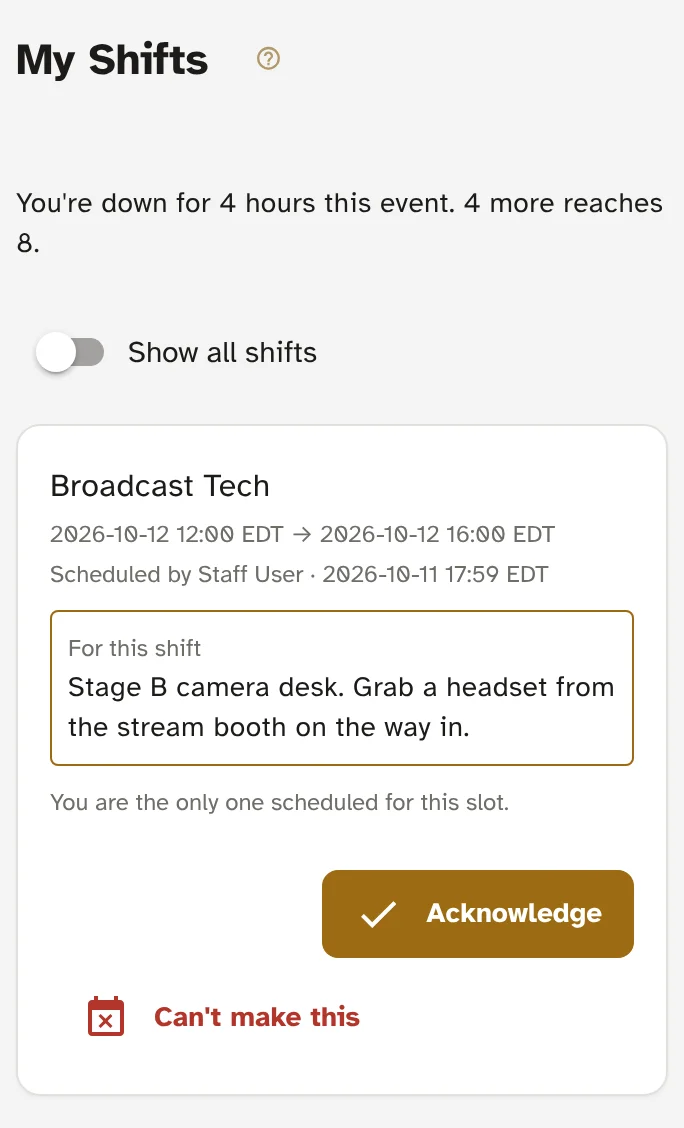
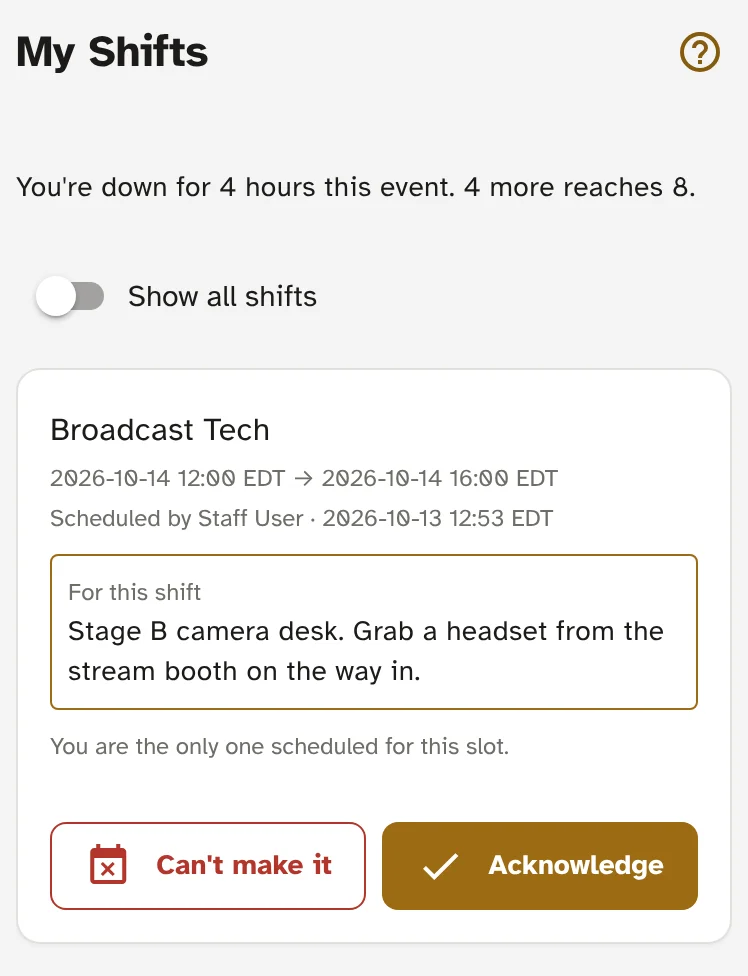
My Shifts: put Can't make it and Acknowledge side by side
Negative action on the left and the positive (or the Acknowledged status
that replaces it) on the right in every state. A narrow card splits the
row into equal halves via a container query, so phones and the multi-column
desktop list both keep the pair on one line. Renames the button to
"Can't make it" to match the reminder DM, and retakes the help shots.

Claude-Session: https://claude.ai/code/session_01EYNKtBQxx7UA2Zaxvc6kuL

diff --git a/static/css/styles.css b/static/css/styles.css
@@ -2933,6 +2933,65 @@ body.wiz-offline .wiz-requires-socket {
 }
 
 /* ---------------------------------------------------------------------------
+   My Shifts card actions — "Can't make it" on the left, Acknowledge (or the
+   status that replaces it) on the right, in every state. A wide card packs the
+   pair right at a fixed width; a narrow one (a phone, or a desktop card in a
+   multi-column list) splits the row into equal halves so the pair never wraps
+   onto two lines. Keyed to the row's own width, not the viewport, for that
+   second case.
+--------------------------------------------------------------------------- */
+.wiz-shift-actions {
+    container-type: inline-size;
+    display: flex;
+    justify-content: flex-end;
+    align-items: stretch;
+    gap: 8px;
+    width: 100%;
+    margin-top: 12px;
+}
+
+.wiz-shift-actions > * {
+    flex: 0 0 auto;
+    min-width: 168px;
+}
+
+.wiz-shift-status {
+    box-sizing: border-box;
+    display: inline-flex;
+    align-items: center;
+    justify-content: center;
+    gap: 6px;
+    min-height: 36px;
+    padding: 0 12px;
+    border: 1px solid currentColor;
+    border-radius: var(--radius-md);
+    font-size: 14px;
+    font-weight: 600;
+}
+
+.wiz-shift-status .q-icon {
+    font-size: 18px;
+}
+
+@container (max-width: 479.98px) {
+    .wiz-shift-actions > * {
+        flex: 1 1 0;
+        min-width: 0;
+    }
+
+    .wiz-shift-actions .q-btn__content {
+        flex-wrap: nowrap;
+        white-space: nowrap;
+    }
+}
+
+@media (max-width: 599.98px) {
+    .wiz-shift-status {
+        min-height: 44px;
+    }
+}
+
+/* ---------------------------------------------------------------------------
    In-app help (/help, and the tappable help icons scattered through the app).
 
    Articles are parsed into a closed block/span vocabulary and rendered with

diff --git a/pages/volunteer_tabs/my_shifts.py b/pages/volunteer_tabs/my_shifts.py
@@ -199,16 +199,25 @@ async def my_shifts_tab(release: Optional[str] = None) -> None:
                             )
                         ui.label(provenance).classes('text-caption text-grey')
                         _render_brief(assignment)
-                    # Actions wrap in their own row: the header row could not hold
-                    # two buttons plus the badge stack at 390px.
-                    with ui.row().classes('items-center gap-2 full-width q-mt-sm') \
-                            .style('flex-wrap: wrap;'):
+                    # Negative left, positive right in every state: a status that
+                    # replaces Acknowledge takes its slot rather than shifting
+                    # "Can't make it" across.
+                    with ui.element('div').classes('wiz-shift-actions'):
+                        # Offered whether or not it is acknowledged — agreeing to a
+                        # shift is not a commitment you cannot revise.
+                        if can_release:
+                            ui.button("Can't make it", icon='event_busy',
+                                      on_click=lambda a=assignment: confirm_release(a)) \
+                                .props('outline color=negative')
                         if checked_in:
-                            ui.badge('Checked in', color='teal')
+                            with ui.element('div').classes('wiz-shift-status st-live'):
+                                ui.icon('how_to_reg')
+                                ui.label('Checked in')
                         if acked:
-                            ui.badge('Acknowledged', color='positive')
-                        ui.space()
-                        if can_ack:
+                            with ui.element('div').classes('wiz-shift-status st-ok'):
+                                ui.icon('check')
+                                ui.label('Acknowledged')
+                        elif can_ack:
                             async def ack(a_id=assignment.id) -> None:
                                 try:
                                     await service.acknowledge(a_id, user)
@@ -216,13 +225,8 @@ async def my_shifts_tab(release: Optional[str] = None) -> None:
                                 except (ValueError, PermissionError) as e:
                                     notify_error(e)
                                 shift_list.refresh()
-                            ui.button('Acknowledge', icon='check', on_click=ack).props('color=primary')
-                        # Offered whether or not it is acknowledged — agreeing to a
-                        # shift is not a commitment you cannot revise.
-                        if can_release:
-                            ui.button("Can't make this", icon='event_busy',
-                                      on_click=lambda a=assignment: confirm_release(a)) \
-                                .props('flat color=negative')
+                            ui.button('Acknowledge', icon='check', on_click=ack) \
+                                .props('color=primary')
 
         def on_toggle(e) -> None:
             state['upcoming_only'] = not e.value

diff --git a/docs/reference/frontend.md b/docs/reference/frontend.md
@@ -341,7 +341,7 @@ On **My Shifts**, above the list, sits one line of hours: `VolunteerHoursService
 
 - **What am I down for** — position/label, the local start→end, and a provenance caption ("Scheduled by …", when, and the acknowledgment time once given).
 - **What does it involve** — the position's `description` as the standing brief, `shift.notes` in a bordered **For this shift** block (the per-shift instruction must not merge visually with the standing one), and a "With: …" line naming the others on the slot, drafts excluded.
-- **How do I get out of it** — a **Can't make this** button beside **Acknowledge**, offered whether or not the shift is acknowledged, opening a dialog that restates the shift, takes an optional reason the coordinator sees, and warns when the shift falls inside the reminder lead or 24 hours (whichever is longer). Its copy is the module-level pure `release_warning(starts_at, lead_minutes)`, so the decision is unit-testable. Confirming calls `service.release`.
+- **How do I get out of it** — a **Can't make it** button beside **Acknowledge**, offered whether or not the shift is acknowledged, opening a dialog that restates the shift, takes an optional reason the coordinator sees, and warns when the shift falls inside the reminder lead or 24 hours (whichever is longer). Its copy is the module-level pure `release_warning(starts_at, lead_minutes)`, so the decision is unit-testable. Confirming calls `service.release`.
 
 The actions sit in their own wrapping row rather than the header row: two buttons plus the badge stack does not fit at 390px.
 

diff --git a/application/help/content/volunteering.md b/application/help/content/volunteering.md
@@ -96,14 +96,13 @@ Shifts that have finished drop off the list. Turn on **Show all shifts** to see
 them again.
 :::
 
-![My Shifts on a phone: the hours line, then a Broadcast Tech shift card with its notes, Acknowledge and Can't make this](/static/help/volunteering/my-shifts-phone.webp "My Shifts, with one upcoming shift.")
+![My Shifts on a phone: the hours line, then a Broadcast Tech shift card with its notes, Acknowledge and Can't make it](/static/help/volunteering/my-shifts-phone.webp "My Shifts, with one upcoming shift.")
 
 ## Giving a shift back
 
 :::snippet shift-release
 If you cannot work a shift, give it back rather than not turning up. Press
-**Can't make this** on its card, or the **Can't make it** button in the reminder
-DM. Your coordinator is told immediately and can look for cover.
+**Can't make it** on its card or in the reminder DM. Your coordinator is told immediately and can look for cover.
 
 You can add a reason. It is optional, and your coordinator sees it.
 

diff --git a/.claude/skills/help-screenshots/SKILL.md b/.claude/skills/help-screenshots/SKILL.md
@@ -79,7 +79,7 @@ This is `scripts/help_screenshots/volunteering.json`:
     "name": "release-phone",
     "user": "sm_user",
     "path": "/volunteer/my-shifts",
-    "setup": [{ "click": "text=Can't make this" }, { "waitFor": ".q-dialog" }, { "wait": 500 }],
+    "setup": [{ "click": "text=Can't make it" }, { "waitFor": ".q-dialog" }, { "wait": 500 }],
     "selector": ".q-dialog .q-card"
   }
 ]

diff --git a/application/changelog/changes/2026-10-13-my-shifts-buttons.md b/application/changelog/changes/2026-10-13-my-shifts-buttons.md
@@ -1,0 +1,4 @@
+- On My Shifts, **Can't make it** and **Acknowledge** now sit side by side on
+  each shift card, on a phone too, instead of stacking with empty space
+  between them. "Can't make it" always stays on the left; once you've
+  acknowledged, an **Acknowledged** marker takes the right-hand spot.
